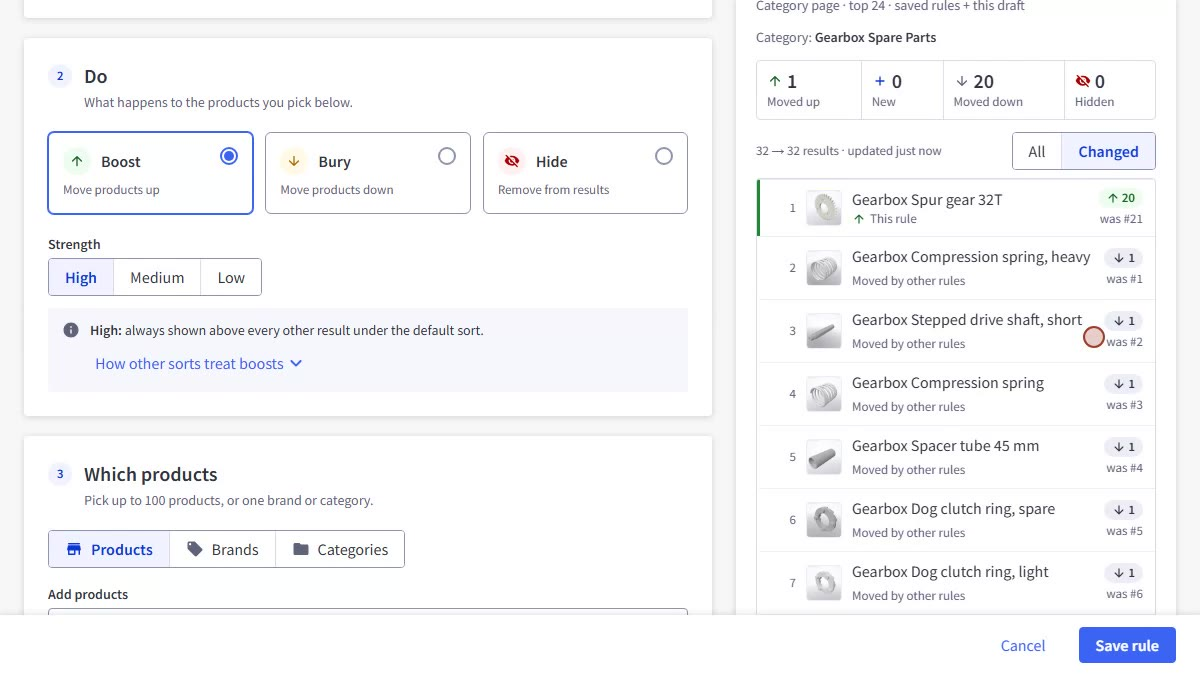
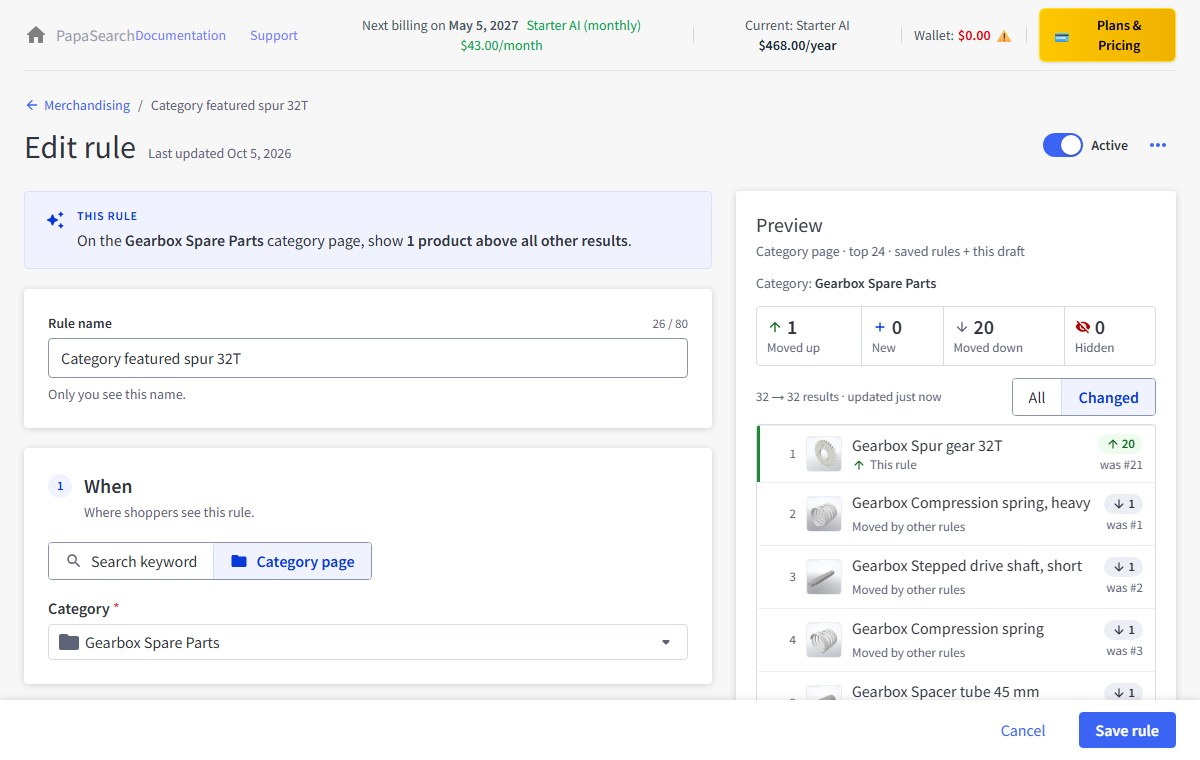
docs: clearer Merchandising editor screenshots and the delete dialog

diff --git a/docs/15-merchandising.md b/docs/15-merchandising.md
@@ -42,7 +42,7 @@ A sentence at the top of the editor sums up the rule as you build it, for exampl
 
 A category page rule applies only when shoppers browse that category. When a shopper searches for a keyword and then filters by that category, only keyword rules apply.
 
-![A category page rule for Gearbox Spare Parts: the Preview shows the category page with the boosted product first](assets/images/merch-category-page-rule.jpg)
+![A category page rule: When is set to Category page, Gearbox Spare Parts, and the Preview shows that page with the boosted product first](assets/images/merch-category-page-rule.jpg)
 
 ![The Gearbox Spare Parts category page on the storefront, led by the boosted product](assets/images/merch-storefront-category.jpg)
 
@@ -64,7 +64,7 @@ Categories without subcategories are simply selected or not. A dash on a parent 
 - **Medium** and **Low** — a nudge up or down among results that are about equally relevant. A product that does not match the search well will not jump to the top.
 - **Hide** — the product is removed from the results **and** from the filter counts, whatever sort the shopper picks. If a Hide rule removes every result, shoppers see **No products found** instead of the products you hid.
 
-![Do and Strength: Boost, Bury or Hide, with High, Medium and Low](assets/images/merch-editor-preview.jpg)
+![When, Do and Strength: Boost, Bury or Hide, with High, Medium and Low](assets/images/merch-editor-preview.jpg)
 
 ![The storefront shows No products found when a Hide rule removes every result](assets/images/merch-storefront-hidden.jpg)
 
@@ -92,6 +92,8 @@ The **Preview** panel shows the top 24 results with your saved rules plus the dr
 
 - Use the switch in the **Active** column to turn a rule off without deleting it. You can always turn a rule off, even if one of its target products has since been deleted.
 - Click the pencil to edit a rule. The **⋯** menu offers **Duplicate**, **Pause** / **Activate** and **Delete**. Before deleting, PapaSearch shows a summary of the rule and offers **Pause the rule instead**.
+
+![Delete dialog: a summary of the rule, Pause the rule instead, and Cancel focused by default](assets/images/merch-delete-dialog.jpg)
 
 ---
 
